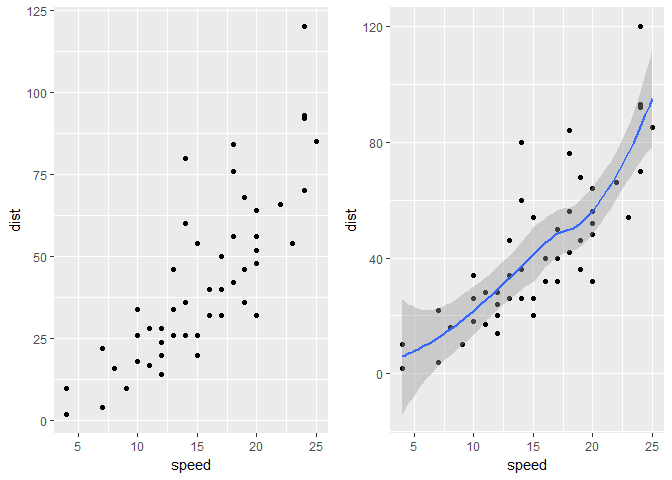
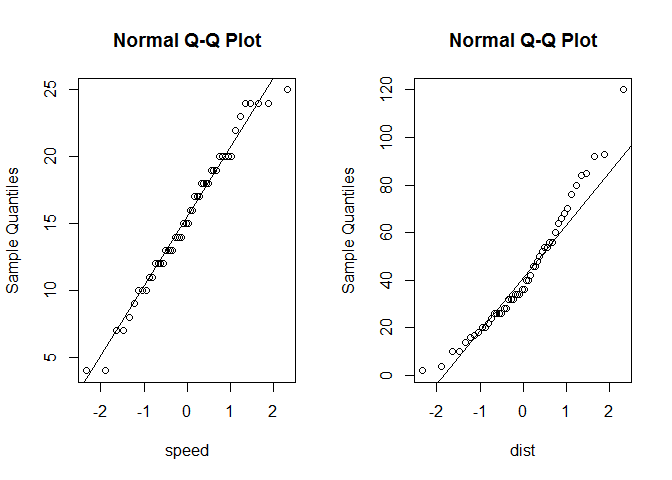
no message

diff --git a/Regession_Simple.html b/Regession_Simple.html
@@ -229,6 +229,7 @@ library(tidyverse)</code></pre>
 <li>Density plot :Distribustion of independent variable</li>
 <li>The most useful way to plot the residuals, though, is with your predicted values on the x-axis, and your residuals on the y-axis. The distance from the line at 0 is how bad the prediction was for that value</li>
 </ul>
+<p>*Residuals : Difference between the actual observed and predicted values from your regression. Distribution of the residuals look like symmetrical/normally distributed/close to 0, that indicates good thing about the model.</p>
 <pre class="r"><code>ds.response.variable &lt;- &quot;dist&quot;
 ds.predictor.variable &lt;- &quot;speed&quot;
 ds.source &lt;- cars
@@ -266,8 +267,6 @@ head(ds)</code></pre>
 ##  Mean   :15.4   Mean   : 42.98  
 ##  3rd Qu.:19.0   3rd Qu.: 56.00  
 ##  Max.   :25.0   Max.   :120.00</code></pre>
-<pre class="r"><code>plot(cars)</code></pre>
[1 lines of base64/hex data omitted]
 <pre class="r"><code>p1 &lt;- ggplot(ds, aes(x=X, y=Y)) +
   geom_point() +
   labs(x=ds.predictor.variable, y=ds.response.variable)
@@ -396,13 +395,30 @@ p1 &lt;- ggplot(model_simplelm, aes(x = X, y = Y)) +
         geom_smooth(method = lm) +
         labs(x=ds.predictor.variable, y= ds.response.variable)
 
-p2 &lt;- ggplot(model_simplelm, aes( x = ds$Y_WholeDS_Prediction, y = ds$Y_WholeDS_Residuals)) +
+p2 &lt;- ggplot(ds, aes(x = X, y = Y)) +
+    geom_point() +
+    geom_abline(intercept = model_simplelm$coefficients[1], slope = model_simplelm$coefficients[2]) +
+    labs(x=ds.predictor.variable, y=ds.response.variable)
+
+p3 &lt;- ggplot(model_simplelm, aes( x = ds$Y_WholeDS_Prediction, y = ds$Y_WholeDS_Residuals)) +
         geom_point() +
         geom_hline( yintercept = 0, linetype = &quot;dashed&quot; ) +
         labs(x=paste0('Predicted :', ds.response.variable), y=paste0('Residuals :' , ds.response.variable))
 
-grid.arrange(p1, p2, ncol = 2)</code></pre>
[1 lines of base64/hex data omitted]
+p4 &lt;- ggplot(ds, aes(x = Y_WholeDS_Residuals)) +
+  geom_histogram(aes(y = ..density..), colour=&quot;black&quot;, fill=&quot;white&quot;) +
+  geom_density(alpha=.2, fill=&quot;#FF6666&quot;) +
+  geom_vline(aes(xintercept=mean(Y_WholeDS_Residuals, na.rm = T)), color=&quot;red&quot;, linetype=&quot;dashed&quot;, size=1)
+
+# grid.arrange(
+#   grid.arrange(p1, p2, ncol = 2),
+#   grid.arrange(p3, ncol = 1) ,
+#     nrow = 2
+# )
+
+grid.arrange(p1,p2,p3,p4, layout_matrix = rbind(c(1,2),c(3,4)))</code></pre>
+<pre><code>## `stat_bin()` using `bins = 30`. Pick better value with `binwidth`.</code></pre>
[1 lines of base64/hex data omitted]
 </div>
 <div id="predicting-simple-linear-model" class="section level4">
 <h4>Predicting Simple linear model</h4>

diff --git a/Regession_Simple.md b/Regession_Simple.md
@@ -139,6 +139,7 @@ ggplot(diamonds, aes(x=carat, y=price)) +
 * Density plot :Distribustion of independent variable
 * The most useful way to plot the residuals, though, is with your predicted values on the x-axis, and your residuals on the y-axis. The distance from the line at 0 is how bad the prediction was for that value
 
+*Residuals : Difference between the actual observed and predicted values from your regression. Distribution of the residuals look like symmetrical/normally distributed/close to 0, that indicates good thing about the model.
 
 
 ```r
@@ -191,12 +192,6 @@ summary(ds)
 ```
 
 ```r
-plot(cars)
-```
-
-![](Regession_Simple_files/figure-html/unnamed-chunk-3-1.png)<!-- -->
-
-```r
 p1 <- ggplot(ds, aes(x=X, y=Y)) +
   geom_point() +
   labs(x=ds.predictor.variable, y=ds.response.variable)
@@ -213,7 +208,7 @@ grid.arrange(p1, p2, ncol=2)
 ## `geom_smooth()` using method = 'loess'
 ```
 
-![](Regession_Simple_files/figure-html/unnamed-chunk-3-2.png)<!-- -->
+![](Regession_Simple_files/figure-html/unnamed-chunk-3-1.png)<!-- -->
 
 ```r
 #normality check
@@ -224,7 +219,7 @@ qqnorm(ds$Y, xlab = ds.response.variable)
 qqline(ds$Y)
 ```
 
-![](Regession_Simple_files/figure-html/unnamed-chunk-3-3.png)<!-- -->
+![](Regession_Simple_files/figure-html/unnamed-chunk-3-2.png)<!-- -->
 
 ```r
 #outliers
@@ -233,7 +228,7 @@ boxplot(ds$X, main=ds.predictor.variable)
 boxplot(ds$Y, main=ds.response.variable)
 ```
 
-![](Regession_Simple_files/figure-html/unnamed-chunk-3-4.png)<!-- -->
+![](Regession_Simple_files/figure-html/unnamed-chunk-3-3.png)<!-- -->
 
 ```r
 #check normal distribution
@@ -261,7 +256,7 @@ grid.arrange(p1, p2, ncol=2)
 ## `stat_bin()` using `bins = 30`. Pick better value with `binwidth`.
 ```
 
-![](Regession_Simple_files/figure-html/unnamed-chunk-3-5.png)<!-- -->
+![](Regession_Simple_files/figure-html/unnamed-chunk-3-4.png)<!-- -->
 
 ```r
 #correlation
@@ -368,15 +363,35 @@ p1 <- ggplot(model_simplelm, aes(x = X, y = Y)) +
         geom_smooth(method = lm) +
         labs(x=ds.predictor.variable, y= ds.response.variable)
 
-p2 <- ggplot(model_simplelm, aes( x = ds$Y_WholeDS_Prediction, y = ds$Y_WholeDS_Residuals)) +
+p2 <- ggplot(ds, aes(x = X, y = Y)) +
+    geom_point() +
+    geom_abline(intercept = model_simplelm$coefficients[1], slope = model_simplelm$coefficients[2]) +
+    labs(x=ds.predictor.variable, y=ds.response.variable)
+
+p3 <- ggplot(model_simplelm, aes( x = ds$Y_WholeDS_Prediction, y = ds$Y_WholeDS_Residuals)) +
         geom_point() +
         geom_hline( yintercept = 0, linetype = "dashed" ) +
         labs(x=paste0('Predicted :', ds.response.variable), y=paste0('Residuals :' , ds.response.variable))
 
-grid.arrange(p1, p2, ncol = 2)
+p4 <- ggplot(ds, aes(x = Y_WholeDS_Residuals)) +
+  geom_histogram(aes(y = ..density..), colour="black", fill="white") +
+  geom_density(alpha=.2, fill="#FF6666") +
+  geom_vline(aes(xintercept=mean(Y_WholeDS_Residuals, na.rm = T)), color="red", linetype="dashed", size=1)
+
+# grid.arrange(
+#   grid.arrange(p1, p2, ncol = 2),
+#   grid.arrange(p3, ncol = 1) ,
+#     nrow = 2
+# )
+
+grid.arrange(p1,p2,p3,p4, layout_matrix = rbind(c(1,2),c(3,4)))
 ```
 
-![](Regession_Simple_files/figure-html/unnamed-chunk-3-6.png)<!-- -->
+```
+## `stat_bin()` using `bins = 30`. Pick better value with `binwidth`.
+```
+
+![](Regession_Simple_files/figure-html/unnamed-chunk-3-5.png)<!-- -->
 
 ####Predicting Simple linear model
 
